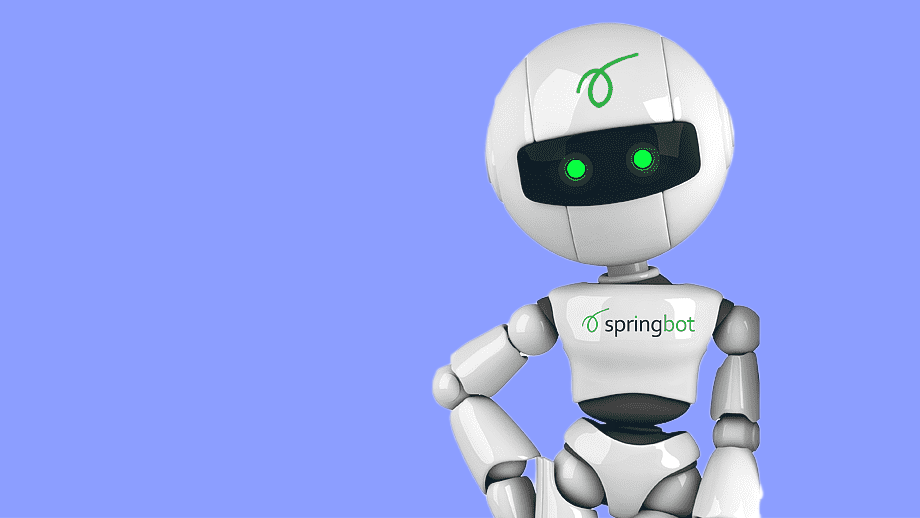
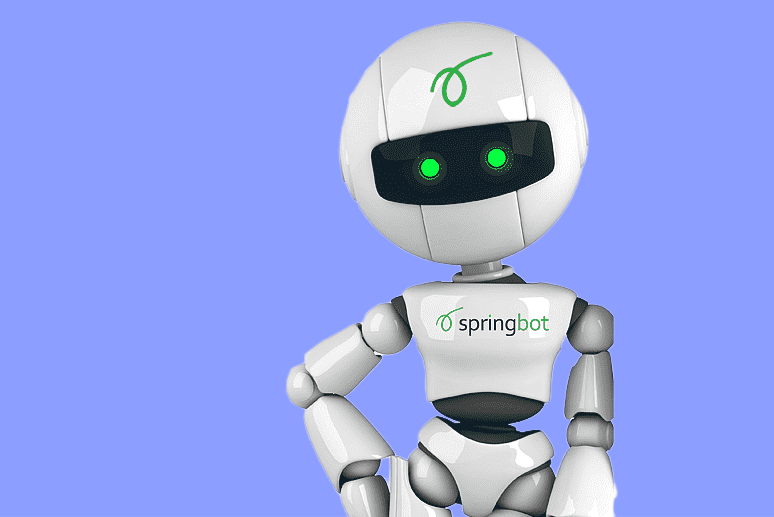
Day-2

Changed region(s): [[0.3721, 0.0309, 0.8372, 1.0]]

diff --git a/index.html b/index.html
@@ -3,7 +3,8 @@
     <title>Sample HTML</title>
     <style>
         body{
-            background:url("img1.png")
+            background:url("1695271446201.png") no-repeat ;
+            background-size: cover; height: 50%;
         }
 
         .button {
